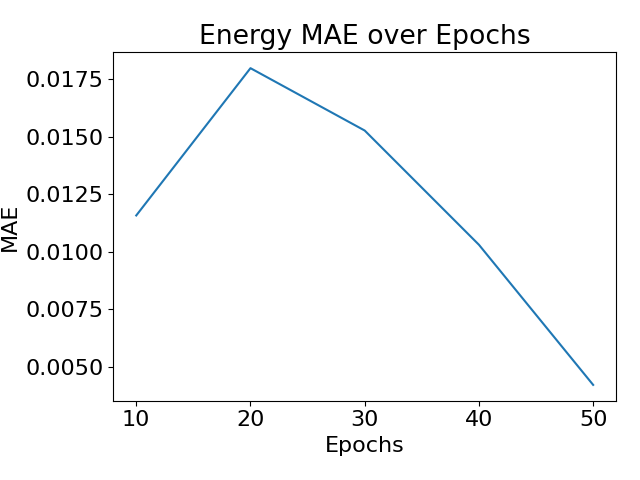
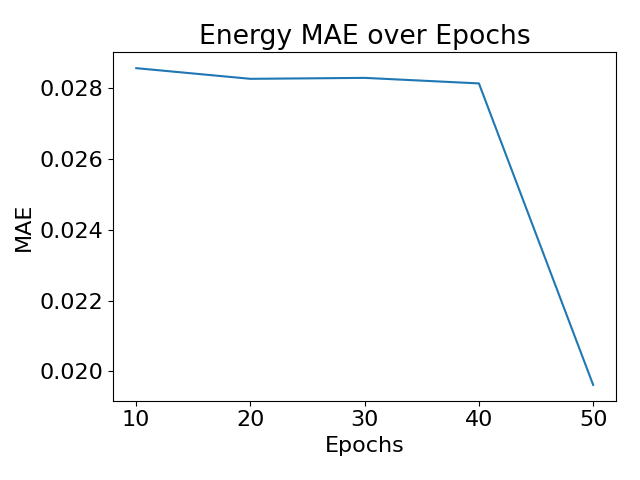
Add anneal and cold start to coefficients

diff --git a/hydragnn/models/create.py b/hydragnn/models/create.py
@@ -33,10 +33,6 @@ def create_model_config(
     verbosity: int = 0,
     use_gpu: bool = True,
 ):
-
-    config["Architecture"].setdefault("alpha_1", 1.0)
-    config["Architecture"].setdefault("alpha_2", 0.0)
-
     return create_model(
         config["Architecture"]["model_type"],
         config["Architecture"]["input_dim"],
@@ -67,9 +63,7 @@ def create_model_config(
         config["Architecture"]["radius"],
         config["Architecture"]["equivariance"],
         verbosity,
-        use_gpu,
-        config["Architecture"]["alpha_1"],
-        config["Architecture"]["alpha_2"],
+        use_gpu
     )
 
 
@@ -104,9 +98,7 @@ def create_model(
     radius: float = None,
     equivariance: bool = False,
     verbosity: int = 0,
-    use_gpu: bool = True,
-    alpha_1 = 1.0,
-    alpha_2 = 1.0
+    use_gpu: bool = True
 ):
     timer = Timer("create_model")
     timer.start()
@@ -129,9 +121,7 @@ def create_model(
             freeze_conv=freeze_conv,
             initial_bias=initial_bias,
             num_conv_layers=num_conv_layers,
-            num_nodes=num_nodes,
-            alpha_1=alpha_1,
-            alpha_2=alpha_2,
+            num_nodes=num_nodes
         )
 
     elif model_type == "PNA":
@@ -151,9 +141,7 @@ def create_model(
             freeze_conv=freeze_conv,
             initial_bias=initial_bias,
             num_conv_layers=num_conv_layers,
-            num_nodes=num_nodes,
-            alpha_1=alpha_1,
-            alpha_2=alpha_2,
+            num_nodes=num_nodes
         )
 
     elif model_type == "GAT":
@@ -175,9 +163,7 @@ def create_model(
             freeze_conv=freeze_conv,
             initial_bias=initial_bias,
             num_conv_layers=num_conv_layers,
-            num_nodes=num_nodes,
-            alpha_1=alpha_1,
-            alpha_2=alpha_2,
+            num_nodes=num_nodes
         )
 
     elif model_type == "MFC":
@@ -196,9 +182,7 @@ def create_model(
             freeze_conv=freeze_conv,
             initial_bias=initial_bias,
             num_conv_layers=num_conv_layers,
-            num_nodes=num_nodes,
-            alpha_1=alpha_1,
-            alpha_2=alpha_2,
+            num_nodes=num_nodes
         )
 
     elif model_type == "CGCNN":
@@ -215,9 +199,7 @@ def create_model(
             freeze_conv=freeze_conv,
             initial_bias=initial_bias,
             num_conv_layers=num_conv_layers,
-            num_nodes=num_nodes,
-            alpha_1=alpha_1,
-            alpha_2=alpha_2,
+            num_nodes=num_nodes
         )
 
     elif model_type == "SAGE":
@@ -233,9 +215,7 @@ def create_model(
             loss_weights=task_weights,
             freeze_conv=freeze_conv,
             num_conv_layers=num_conv_layers,
-            num_nodes=num_nodes,
-            alpha_1=alpha_1,
-            alpha_2=alpha_2,
+            num_nodes=num_nodes
         )
 
     elif model_type == "SchNet":
@@ -259,9 +239,7 @@ def create_model(
             freeze_conv=freeze_conv,
             initial_bias=initial_bias,
             num_conv_layers=num_conv_layers,
-            num_nodes=num_nodes,
-            alpha_1=alpha_1,
-            alpha_2=alpha_2,
+            num_nodes=num_nodes
         )
 
     elif model_type == "DimeNet":
@@ -299,9 +277,7 @@ def create_model(
             freeze_conv=freeze_conv,
             initial_bias=initial_bias,
             num_conv_layers=num_conv_layers,
-            num_nodes=num_nodes,
-            alpha_1=alpha_1,
-            alpha_2=alpha_2,
+            num_nodes=num_nodes
         )
 
     elif model_type == "EGNN":
@@ -320,9 +296,7 @@ def create_model(
             freeze_conv=freeze_conv,
             initial_bias=initial_bias,
             num_conv_layers=num_conv_layers,
-            num_nodes=num_nodes,
-            alpha_1=alpha_1,
-            alpha_2=alpha_2,
+            num_nodes=num_nodes
         )
 
     else:

diff --git a/hydragnn/train/train_validate_test.py b/hydragnn/train/train_validate_test.py
@@ -64,6 +64,8 @@ def train_validate_test(
     plot_init_solution=True,
     plot_hist_solution=False,
     create_plots=False,
+    anneal=None,
+    cold_start=None
 ):
     num_epoch = config["Training"]["num_epoch"]
     EarlyStop = (
@@ -152,8 +154,8 @@ def train_validate_test(
             output_names=config['Variables_of_interest']['output_names']
 
             train_loss, train_taskserr = train(
-                    train_loader, model, optimizer, verbosity, profiler=prof,
-                    output_names=config['Variables_of_interest']['output_names']
+                    train_loader, model, optimizer, verbosity, epoch=epoch, profiler=prof,
+                    output_names=config['Variables_of_interest']['output_names'], anneal=anneal, cold_start=cold_start
                 )
 
             tr.stop("train")
@@ -424,8 +426,11 @@ def train(
     model,
     opt,
     verbosity,
+    epoch,
     profiler=None,
-    output_names=None
+    output_names=None,
+    anneal=None,
+    cold_start=None
 ):
     if profiler is None:
         profiler = Profiler()
@@ -485,10 +490,16 @@ def train(
                 # since the forces are the negative gradiens, for the mismatch I need to compute the add instead of subtracting
                 self_consistency_loss1 = torch.sum(torch.abs(grads_energy_reshaped + atomic_forces))
                 self_consistency_loss2 = torch.sum(torch.abs(grad_energy_post_scaled + pred[indices_atomic_forces[0]]))
-                loss = loss + model.alpha_1 * (self_consistency_loss1) + model.alpha_2 * (self_consistency_loss2)
+                loss = loss + 0.0 * (self_consistency_loss1) + 1.0 * (self_consistency_loss2)
 
-                print(f"self consistency loss1: {model.alpha_1} * {self_consistency_loss1}")
-                print(f"self consistency loss2: {model.alpha_2} *  {self_consistency_loss2}")
+                # from math import exp
+                # sigmoid = lambda x: 1/(1 + exp(-x))
+                # anneal_coeff = anneal["start_value"] * (1 - anneal["rate"])**(round(epoch/anneal["frequency"]))
+                # cold_start_coeff = cold_start["final_value"] * sigmoid(cold_start["rate"] * (epoch - cold_start["cutoff_epoch"]))
+                # loss = loss + anneal_coeff * (self_consistency_loss1) + cold_start_coeff * (self_consistency_loss2)
+
+                #print(f"self consistency loss1: {alpha_1} * {self_consistency_loss1}")
+                #print(f"self consistency loss2: {alpha_2} *  {self_consistency_loss2}")
 
         tr.stop("forward")
         tr.start("backward")

diff --git a/hydragnn/models/Base.py b/hydragnn/models/Base.py
@@ -39,9 +39,7 @@ class Base(Module):
         initial_bias=None,
         dropout: float = 0.25,
         num_conv_layers: int = 16,
-        num_nodes: int = None,
-        alpha_1: float = 1.0,
-        alpha_2: float = 0.0,
+        num_nodes: int = None
     ):
         super().__init__()
         self.device = get_device()
@@ -52,11 +50,6 @@ class Base(Module):
         self.graph_convs = ModuleList()
         self.feature_layers = ModuleList()
         self.num_nodes = num_nodes
-
-        # Coefficients for PINNs
-        self.alpha_1 = alpha_1
-        self.alpha_2 = alpha_2
-
         ##One head represent one variable
         ##Head can have different sizes, head_dims
         self.heads_NN = ModuleList()

diff --git a/hydragnn/utils/adiosdataset.py b/hydragnn/utils/adiosdataset.py
@@ -10,6 +10,7 @@ import numpy as np
 try:
     import adios2 as ad2
 except ImportError:
+    print("ad2 not found")
     pass
 
 import torch_geometric.data
